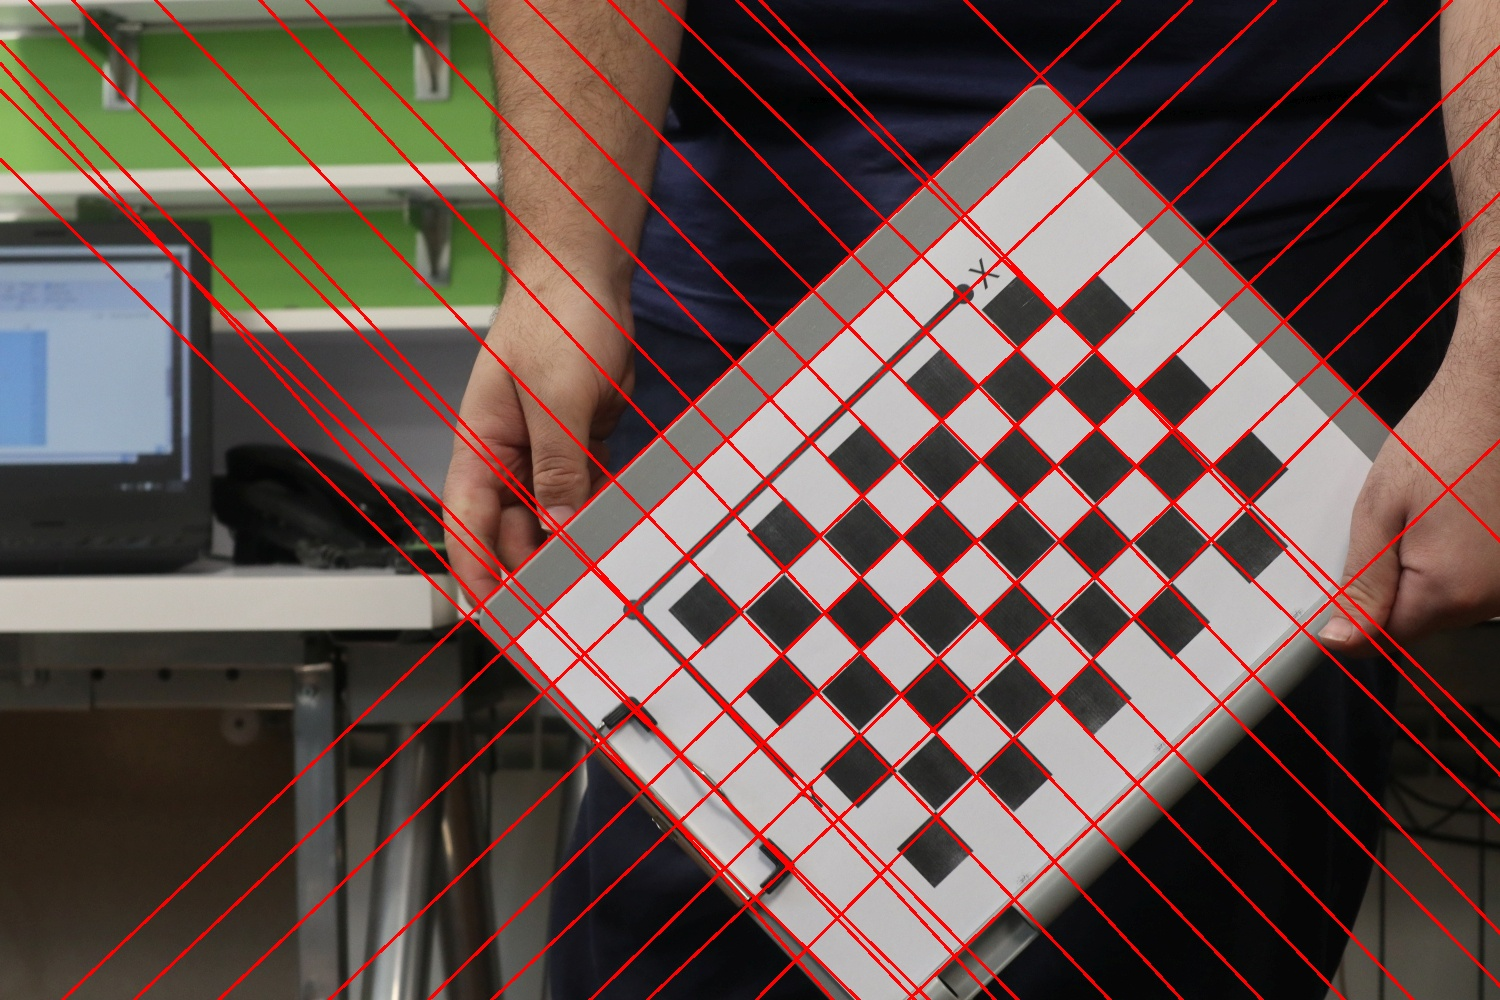
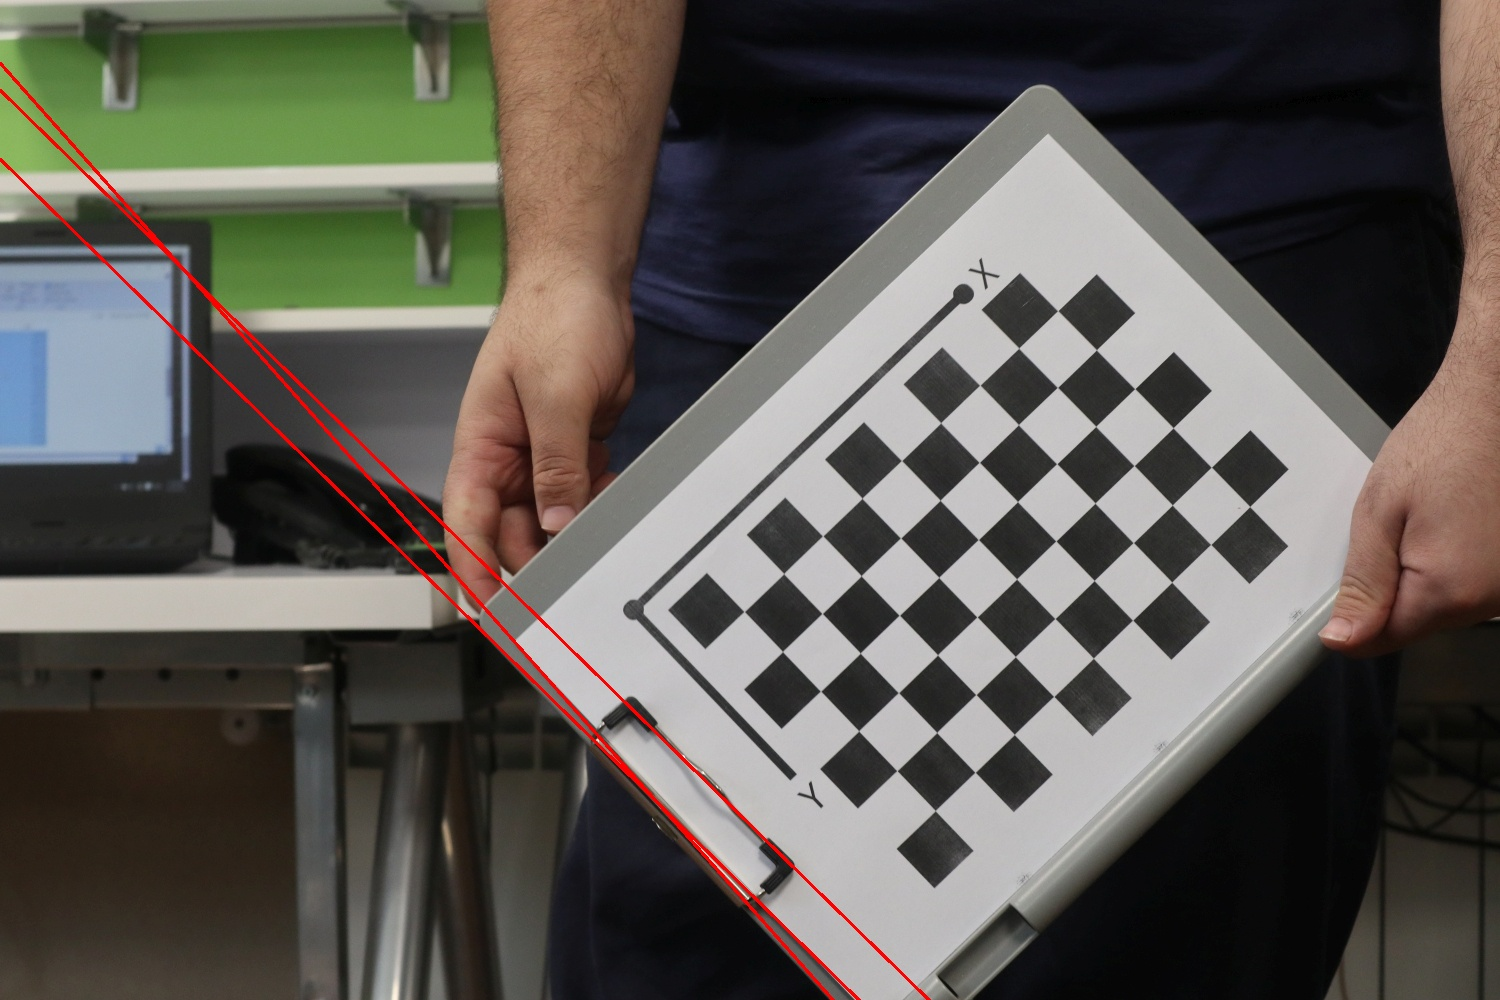
q1 ignoring lines based on color differences added

diff --git a/HW3/q1.py b/HW3/q1.py
@@ -108,26 +108,32 @@ def isParallelWithThr(distinct_angles, angle, angle_appears, angle_thr, app_thr)
 
 img = cv2.imread('./im02.jpg', cv2.IMREAD_COLOR)
 img_edges = cv2.Canny(img, 100, 250)
-#utl.showImg(img_edges, 0.5)
-
+#img_edges = cv2.Laplacian(img, ddepth=-1, ksize=1, borderType=cv2.BORDER_CONSTANT)
 # threshold for converting edges to binary
-"""
+
 thr = 10
 img_edges[img_edges > thr] = 255
 img_edges[img_edges <= thr] = 0
-utl.showImg(img_edges, 1)
+#utl.showImg(img_edges, 1)
 M, N = img_edges.shape
 angle_num = 400
 len_num = 400
 thr = 1e-2
+
+#utl.showImg(img_edges, 0.8)
+
+"""
 
 print("Finding hough space representation ...")
 voting_mat, len_angle_spc = houghTran(img_edges, len_num, angle_num, thr)
 hough_space = utl.scaleIntensities(voting_mat)
 
 np.save('voting.npy', voting_mat)
+np.save('space.npy', len_angle_spc)
 """
+
 voting_mat = np.load('voting.npy')
+len_angle_spc = np.load('space.npy')
 print(len(np.nonzero(voting_mat >= 0.3*np.amax(voting_mat))[0]))
 
 max_indices = utl.findLocalMax(voting_mat, 0.4*np.amax(voting_mat), 0.1)
@@ -152,19 +158,69 @@ for i in range(1, len(angles)):
     else: 
         angles_appear[index] += 1
         
-print(distinct_angles)
-print(angles_appear)
+#print(distinct_angles)
+#print(angles_appear)
 
-print("Finding local maximums and drawing lines ...")
+#print("Finding local maximums and drawing lines ...")
 angle_thr_ind = np.unravel_index(np.argsort(angles_appear, axis=None)[-2:], 
                                  len(angles_appear))[0][0]
 angle_thr = angles_appear[angle_thr_ind]
 
+rhos = []
+thetas = []
+# consider parallel lines and delete others
 for i in range(max_indices.shape[1]):
     if isParallelWithThr(distinct_angles, max_indices[1, i], angles_appear, 4, angle_thr):
-        pt1, pt2 = convertToXY(len_angle_spc[max_indices[0, i], max_indices[1, i], 0], 
-                               len_angle_spc[max_indices[0, i], max_indices[1, i], 1], N, M)
-        cv2.line(img, (pt1[0], pt1[1]), (pt2[0], pt2[1]), (0, 0, 255), 2)
+        rho = len_angle_spc[max_indices[0, i], max_indices[1, i], 0]
+        theta = len_angle_spc[max_indices[0, i], max_indices[1, i], 1]
+        rhos.append(rho)
+        thetas.append(theta)
+
+# try to remove lines that are not in chess area, using their color
+img_gray = cv2.cvtColor(img, cv2.COLOR_BGR2GRAY)
+final_rhos = []
+final_thetas = []
+for j in range(len(thetas)):
+    tmp_img = np.zeros((img.shape[0], img.shape[1]), dtype=img.dtype)
+    flag = False
+    pt1, pt2 = convertToXY(rhos[j], thetas[j], N, M)
+    cv2.line(tmp_img, (pt1[0], pt1[1]), (pt2[0], pt2[1]), 255, 1)
+    
+    line_pixels = np.nonzero(tmp_img == 255)
+    x_pixels = line_pixels[0]
+    y_pixels = line_pixels[1]
+    
+    # check neighoubers for line_len and neigh_num each side
+    line_len = 20
+    neigh_num = 20
+    chess_square_thr = 150
+    
+    for i in range(len(x_pixels)-line_len):
+        xi = x_pixels[i]
+        yi = y_pixels[i]    
+        
+        left_equivalent_pixel = 0
+        right_equivalent_pixel = 0
+        for k in range(line_len):
+            left_equivalent_pixel += np.sum(img_gray[x_pixels[i+k], (yi-neigh_num) % N:yi])
+            right_equivalent_pixel += np.sum(img_gray[x_pixels[i+k], yi:(yi+neigh_num) % N])
+    
+        if abs(left_equivalent_pixel - right_equivalent_pixel) / (neigh_num * line_len) >= chess_square_thr:
+            print("True, line passes chess area!")
+            flag = True
+            break
+    if flag:
+        final_rhos.append(rhos[j])
+        final_thetas.append(thetas[j])
+
+#print(final_rhos)
+#print(final_thetas)
+#utl.showImg(tmp_img, 0.5)
+
+for i in range(len(final_thetas)):
+    pt1, pt2 = convertToXY(final_rhos[i], final_thetas[i], N, M)
+    cv2.line(img, (pt1[0], pt1[1]), (pt2[0], pt2[1]), (0, 0, 255), 2)
+
 
 print("Done!")
 cv2.imwrite('lines-found.jpg', img)
